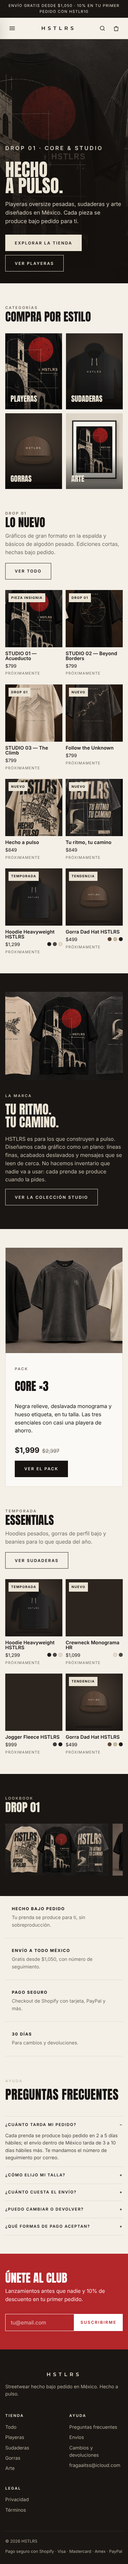
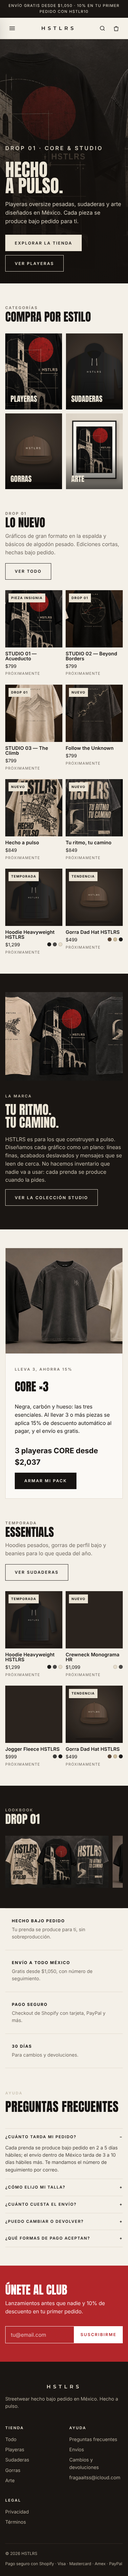
Cambiar CORE a Comfort Colors 1717, promo 3x15% y textos fieles al producto
Precios con mejor margen, descuento automático por 3 piezas en el carrito,
guía de tallas real, nombres y descripciones que coinciden con lo que se
produce y primeras fotos de producto generadas en Printful.

Claude-Session: https://claude.ai/code/session_013DNV1jFrcSM7ktCTz4AAyr

Changed region(s): [[0.0308, 0.0312, 0.9538, 0.9979], [0.5538, 0.9356, 0.7077, 0.9668]]

diff --git a/assets/js/store.js b/assets/js/store.js
@@ -130,7 +130,7 @@
           <p class="coupon-msg" data-coupon-msg></p>
           <div class="totals">
             <div><span>Subtotal</span><span data-subtotal></span></div>
-            <div data-discount-row hidden><span>Descuento</span><span data-discount></span></div>
+            <div data-discount-row hidden><span data-discount-label>Descuento</span><span data-discount></span></div>
             <div><span>Envío</span><span data-shipping></span></div>
             <div class="total"><span>Total estimado</span><span data-total></span></div>
           </div>
@@ -195,11 +195,16 @@
   function totals() {
     const subtotal = cart.reduce((s, l) => s + priceFor(byId(l.id), l.size) * l.qty, 0);
     const c = coupon && CFG.coupons[coupon];
-    let discount = 0;
-    if (c && subtotal >= (c.minSubtotal || 0)) discount = c.type === "percent" ? subtotal * c.value / 100 : Math.min(c.value, subtotal);
+    let discount = 0, discountLabel = "";
+    if (c && subtotal >= (c.minSubtotal || 0)) { discount = c.type === "percent" ? subtotal * c.value / 100 : Math.min(c.value, subtotal); discountLabel = coupon; }
+    // Descuento automático por cantidad (no se combina con cupones: se aplica el mayor)
+    const units = cart.reduce((s, l) => s + l.qty, 0);
+    const mb = CFG.multiBuy;
+    if (mb && units >= mb.minQty && subtotal * mb.percent / 100 > discount) { discount = subtotal * mb.percent / 100; discountLabel = `${mb.percent}% por ${mb.minQty}+ piezas`; }
+    discount = Math.round(discount * 100) / 100;
     const after = subtotal - discount;
     const shipping = !cart.length || after >= CFG.shipping.freeFrom ? 0 : CFG.shipping.cost;
-    return { subtotal, discount, after, shipping, total: after + shipping };
+    return { subtotal, discount, discountLabel, units, after, shipping, total: after + shipping };
   }
 
   function renderCart() {
@@ -221,13 +226,17 @@
     $("[data-subtotal]").textContent = money(t.subtotal);
     $("[data-discount-row]").hidden = !t.discount;
     $("[data-discount]").textContent = `−${money(t.discount)}`;
+    $("[data-discount-label]").textContent = t.discountLabel ? `Descuento (${t.discountLabel})` : "Descuento";
     $("[data-shipping]").textContent = t.shipping ? money(t.shipping) : "Gratis";
     $("[data-total]").textContent = money(t.total);
     const left = CFG.shipping.freeFrom - t.after;
     $("[data-ship-fill]").style.width = `${Math.min(100, (t.after / CFG.shipping.freeFrom) * 100)}%`;
     $("[data-ship-msg]").innerHTML = left > 0 ? `Te faltan <strong>${money(left)}</strong> para el envío gratis` : "Tu pedido tiene <strong>envío gratis</strong>";
     const c = coupon && CFG.coupons[coupon];
-    $("[data-coupon-msg]").textContent = c ? `${coupon} aplicado: ${c.label}` : "";
+    const mb = CFG.multiBuy;
+    $("[data-coupon-msg]").textContent = c && t.discountLabel === coupon ? `${coupon} aplicado: ${c.label}`
+      : t.units >= (mb?.minQty || Infinity) ? `${mb.percent}% automático por llevar ${mb.minQty} o más${c ? " (mejor que tu cupón)" : ""}`
+      : mb && t.units > 0 ? `Agrega ${mb.minQty - t.units} pieza${mb.minQty - t.units === 1 ? "" : "s"} más y obtén ${mb.percent}% de descuento` : "";
   }
 
   const drawer = () => $("[data-drawer]");
@@ -254,8 +263,7 @@
     $("[data-featured]").innerHTML = featured.map(cardHTML).join("");
     $("[data-essentials]").innerHTML = CATALOG.filter((p) => p.collection === "ESSENTIALS").slice(0, 4).map(cardHTML).join("");
     $("[data-lookbook]").innerHTML = window.LOOKBOOK.map((l) => `<img src="${esc(l.src)}" alt="${esc(l.alt)}" loading="lazy">`).join("");
-    const pack = byId("pack-core-x3");
-    $("[data-pack-price]").innerHTML = `${money(pack.price)}<s>${money(pack.compareAt)}</s>`;
+    $("[data-pack-price]").textContent = `3 playeras CORE desde ${money(Math.round(799 * 3 * (1 - CFG.multiBuy.percent / 100)))}`;
   }
 
   /* ---------- Página: tienda ---------- */
@@ -291,10 +299,11 @@
   }
 
   /* ---------- Página: producto ---------- */
-  const SIZE_GUIDE = `<table class="size-table"><thead><tr><th>Talla</th><th>Pecho (cm)</th><th>Largo (cm)</th></tr></thead><tbody>
-    <tr><td>S</td><td>110</td><td>70</td></tr><tr><td>M</td><td>116</td><td>72</td></tr><tr><td>L</td><td>122</td><td>74</td></tr>
-    <tr><td>XL</td><td>128</td><td>76</td></tr><tr><td>2XL</td><td>134</td><td>78</td></tr></tbody></table>
-    <p class="muted">Corte oversize. Si prefieres un ajuste más regular, elige una talla menos. Medidas aproximadas: se confirman con las muestras del proveedor.</p>`;
+  const SIZE_GUIDE = `<p>Medidas de la prenda extendida (playeras CORE, Comfort Colors 1717):</p>
+    <table class="size-table"><thead><tr><th>Talla</th><th>Ancho de pecho (cm)</th><th>Largo (cm)</th></tr></thead><tbody>
+    <tr><td>S</td><td>51</td><td>71</td></tr><tr><td>M</td><td>56</td><td>74</td></tr><tr><td>L</td><td>61</td><td>76</td></tr>
+    <tr><td>XL</td><td>66</td><td>79</td></tr><tr><td>2XL</td><td>71</td><td>81</td></tr></tbody></table>
+    <p class="muted">Corte relajado. Para el look oversize de las fotos, pide una talla más de la que usas normalmente.</p>`;
 
   function initProduct() {
     const p = byId(params.get("id"));

diff --git a/assets/js/catalog.js b/assets/js/catalog.js
@@ -21,45 +21,42 @@
     "Hecha bajo pedido para ti",
     "Lavar en frío del revés, no usar secadora",
   ];
+  const coreDetails = [
+    "Comfort Colors 1717: algodón 100 % pesado, teñido en prenda",
+    "Corte relajado: para un look oversize pide una talla más",
+    "Hecha bajo pedido para ti",
+    "Lavar en frío del revés, no usar secadora",
+  ];
   const variants = (ids) => Object.fromEntries(TEE_SIZES.map((s, i) => [s, ids[i]]));
 
   window.CATALOG = [
     // ---------- CORE ----------
     {
-      id: "core-01-negra-relieve", name: "CORE 01 — Negra relieve", collection: "CORE", category: "playeras",
-      price: 799, sizePrice: { "2XL": 849 }, badge: "Drop 01",
+      id: "core-01-negra-relieve", name: "CORE 01 — Negra manga", collection: "CORE", category: "playeras",
+      price: 799, sizePrice: { "2XL": 849 }, badge: "Disponible",
       colors: [{ name: "Negro", hex: "#141414", image: D + "core-01-negra-relieve.jpg" }],
       gallery: [D + "lookbook-1.jpg"], sizes: TEE_SIZES,
-      description: "Hecho a pulso. La base de todo, en negro: HSTLRS discreto al frente y el nombre tono sobre tono a lo largo de la manga. Corte oversize, hombro caído. Sin ruido: se nota de cerca.",
-      details: teeDetails, published: true,
+      description: "Hecho a pulso. La base de todo, en negro: HSTLRS discreto al frente y el nombre en vertical, estampado tono sobre tono, a lo largo de la manga izquierda. Sin ruido: se nota de cerca.",
+      details: coreDetails, published: true,
       shopify: variants([67954952110353, 67954952143121, 67954952175889, 67954952208657, 67954952241425]),
     },
     {
       id: "core-02-deslavada-monograma", name: "CORE 02 — Deslavada monograma", collection: "CORE", category: "playeras",
-      price: 799, sizePrice: { "2XL": 849 }, badge: "Drop 01",
+      price: 799, sizePrice: { "2XL": 849 }, badge: "Disponible",
       colors: [{ name: "Carbón deslavado", hex: "#3c3b3a", image: D + "core-02-deslavada-monograma.jpg" }],
       gallery: [D + "lookbook-1.jpg"], sizes: TEE_SIZES,
-      description: "El desgaste que no se finge. Gris carbón con lavado vintage y el monograma HR bordado tono sobre tono en el pecho.",
-      details: ["Monograma bordado", ...teeDetails], published: true,
+      description: "El desgaste que no se finge. Carbón teñido en prenda con aspecto vintage y el monograma HR bordado en gris en el pecho.",
+      details: ["Monograma bordado en el pecho izquierdo", ...coreDetails], published: true,
       shopify: variants([67954952339729, 67954952372497, 67954952405265, 67954952438033, 67954952470801]),
     },
     {
-      id: "core-03-hueso-etiqueta", name: "CORE 03 — Hueso etiqueta", collection: "CORE", category: "playeras",
-      price: 799, sizePrice: { "2XL": 849 }, badge: "Drop 01",
+      id: "core-03-hueso-etiqueta", name: "CORE 03 — Hueso", collection: "CORE", category: "playeras",
+      price: 799, sizePrice: { "2XL": 849 }, badge: "Disponible",
       colors: [{ name: "Hueso", hex: "#e9e1d1", image: D + "core-03-hueso-etiqueta.jpg" }],
       gallery: [D + "lookbook-1.jpg"], sizes: TEE_SIZES,
-      description: "Lo esencial, en hueso. HSTLRS discreto al frente y etiqueta en el costado. La pieza que combina con todo tu clóset.",
-      details: teeDetails, published: true,
+      description: "Lo esencial, en hueso. HSTLRS discreto al frente, en negro. La pieza que combina con todo tu clóset.",
+      details: coreDetails, published: true,
       shopify: variants([67954952536337, 67954952569105, 67954952601873, 67954952634641, 67954952667409]),
-    },
-    {
-      id: "pack-core-x3", name: "Pack CORE ×3", collection: "CORE", category: "packs",
-      price: 1999, compareAt: 2397, badge: "Ahorra $398",
-      colors: [{ name: "Negro + carbón + hueso", hex: "#6b6560", image: D + "lookbook-1.jpg" }],
-      gallery: [D + "core-01-negra-relieve.jpg", D + "core-02-deslavada-monograma.jpg", D + "core-03-hueso-etiqueta.jpg"],
-      sizes: TEE_SIZES,
-      description: "Las tres CORE en tu talla: negra relieve, deslavada monograma y hueso etiqueta. El pack más pedido en playeras es el de tres, y aquí te ahorras casi una playera.",
-      details: ["3 playeras CORE de la misma talla", ...teeDetails], published: false, shopify: null,
     },
 
     // ---------- STUDIO ----------

diff --git a/index.html b/index.html
@@ -68,13 +68,13 @@
     <section class="section">
       <div class="wrap">
         <div class="promo">
-          <img src="assets/img/drop/lookbook-1.jpg" alt="Pack CORE de tres playeras" loading="lazy">
+          <img src="assets/img/drop/lookbook-1.jpg" alt="Las tres playeras CORE: negra, carbón y hueso" loading="lazy">
           <div class="promo__body">
-            <p class="label muted">Pack</p>
+            <p class="label muted">Lleva 3, ahorra 15%</p>
             <h2>CORE ×3</h2>
-            <p>Negra relieve, deslavada monograma y hueso etiqueta, en tu talla. Las tres esenciales con casi una playera de ahorro.</p>
+            <p>Negra, carbón y hueso: las tres esenciales. Al llevar 3 o más piezas se aplica 15% de descuento automático al pagar, y el envío es gratis.</p>
             <div class="promo__price" data-pack-price></div>
-            <div><a class="btn" href="producto.html?id=pack-core-x3">Ver el pack</a></div>
+            <div><a class="btn" href="tienda.html?cat=playeras">Armar mi pack</a></div>
           </div>
         </div>
       </div>

diff --git a/assets/js/config.js b/assets/js/config.js
@@ -23,6 +23,10 @@ window.STORE_CONFIG = {
     HSTLR10: { type: "percent", value: 10, label: "10% de bienvenida" },
   },
 
+  // Descuento automático por cantidad. Debe coincidir con el descuento automático
+  // "Lleva 3 o más: 15% de descuento" creado en Shopify (no se combina con cupones).
+  multiBuy: { minQty: 3, percent: 15 },
+
   /**
    * Cómo se procesa el pago:
    *  - "whatsapp": envía el resumen del pedido por WhatsApp (ideal para empezar).
